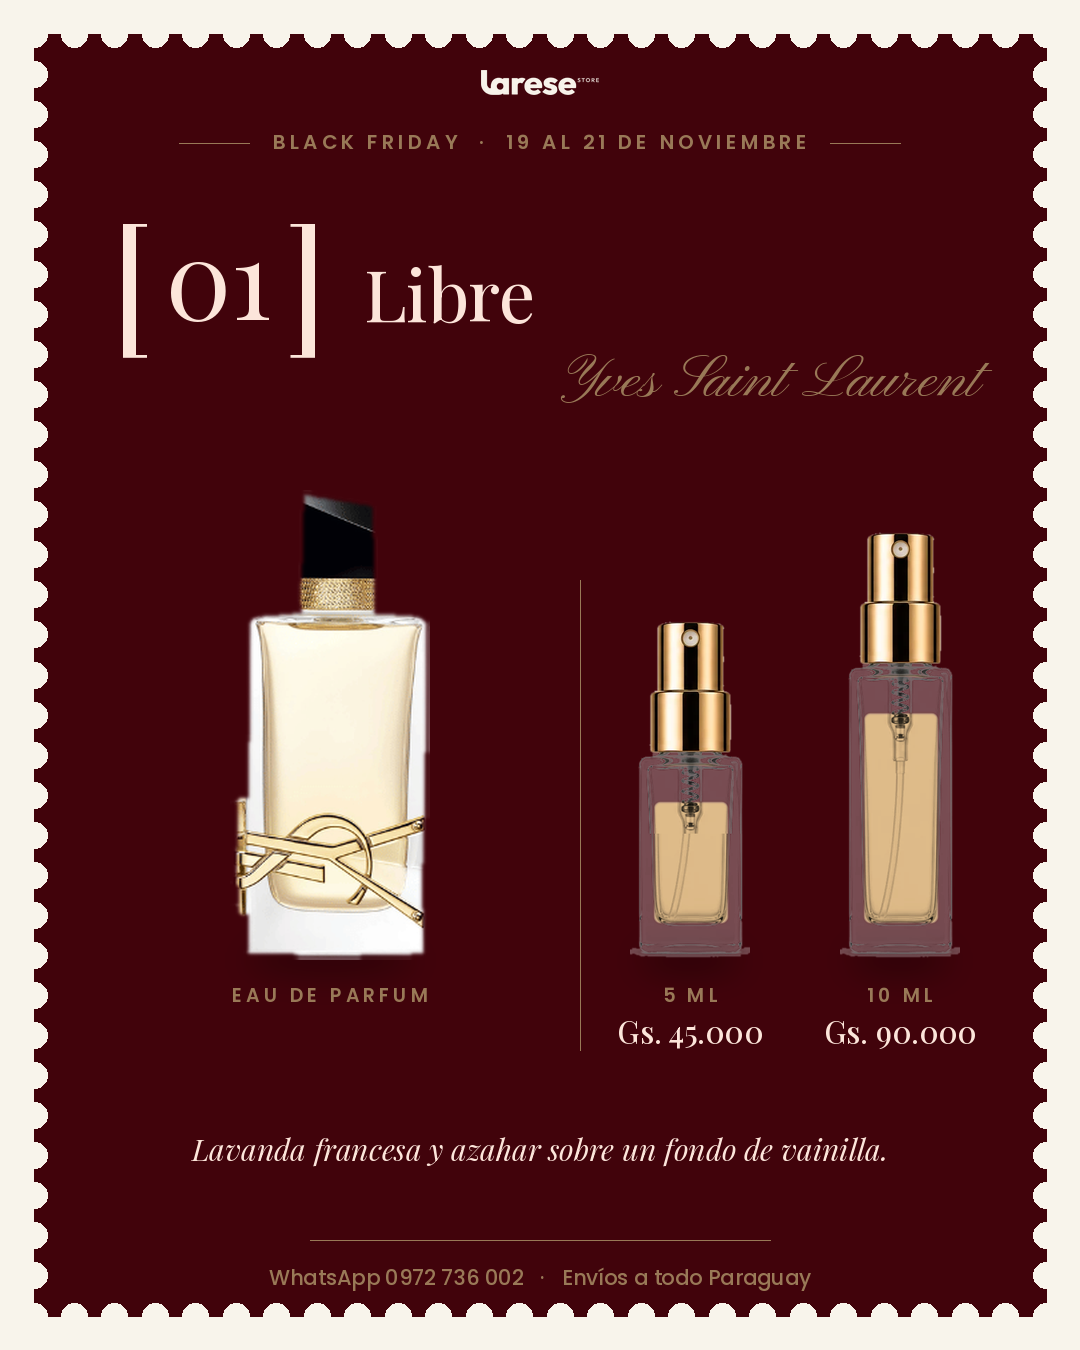
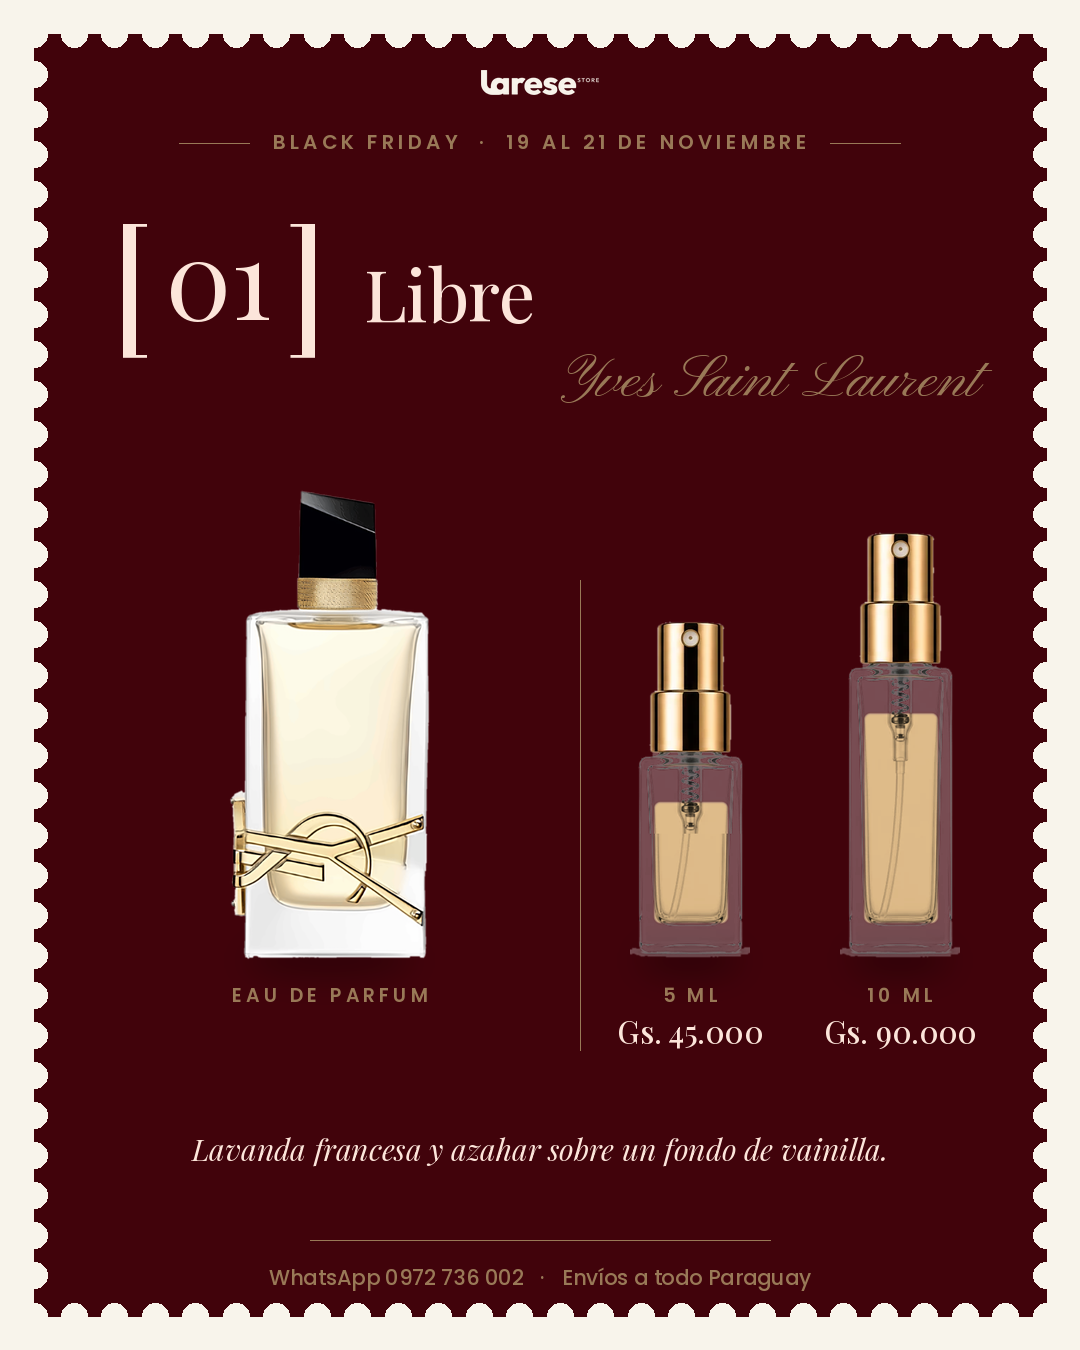
Black Friday carousel: sharper upscaled photos, clean Libre and J'adore cutouts
Claude-Session: https://claude.ai/code/session_01DnzkNLcZedFpQcyR6bg5VG

Changed region(s): [[0.2139, 0.3422, 0.3972, 0.7156]]

diff --git a/flyer-black-friday-decants/carrusel/armar_carrusel.py b/flyer-black-friday-decants/carrusel/armar_carrusel.py
@@ -49,6 +49,25 @@ PRINCIPAL = cc.MARFIL
 SUAVE = cc.DORADO
 
 
+def recorte_fino(ruta, umbral):
+    """Recorta el fondo blanco con un umbral bajo, para frascos de vidrio casi blanco."""
+    import numpy as np
+    from PIL import ImageFilter
+    im = Image.open(ruta).convert("RGB")
+    b = im.copy()
+    w, h = b.size
+    marca = (1, 254, 3)
+    for p in [(0, 0), (w - 1, 0), (0, h - 1), (w - 1, h - 1), (w // 2, 0), (w // 2, h - 1), (0, h // 2), (w - 1, h // 2)]:
+        if b.getpixel(p) != marca:
+            ImageDraw.floodfill(b, p, marca, thresh=umbral)
+    fuera = np.all(np.array(b) == marca, axis=-1)
+    a = Image.fromarray(np.where(fuera, 0, 255).astype("uint8"))
+    a = a.filter(ImageFilter.MinFilter(5)).filter(ImageFilter.GaussianBlur(1.5))
+    out = im.convert("RGBA")
+    out.putalpha(a)
+    return out.crop(a.getbbox())
+
+
 def foto(ruta):
     """Recorte del frasco original (algunas fotos traen la caja: se recortan igual)."""
     if not os.path.exists(ruta):  # sin la versión agrandada, la original
@@ -63,6 +82,9 @@ def foto(ruta):
         recorte = os.path.join(FOTOS, "11-jadore-frasco.png")
         im.crop((int(im.width * 0.56), 0, im.width, im.height)).save(recorte)
         ruta = recorte
+    if os.path.basename(ruta).startswith("10-libre"):
+        # el vidrio de Libre es casi blanco: con el recorte común se come la base
+        return recorte_fino(ruta, umbral=6), True
     prod, ok = cc.cargar_producto(ruta)
     if ok:
         # sobre vino se nota el filo blanco del recorte: se come 2 px del borde
